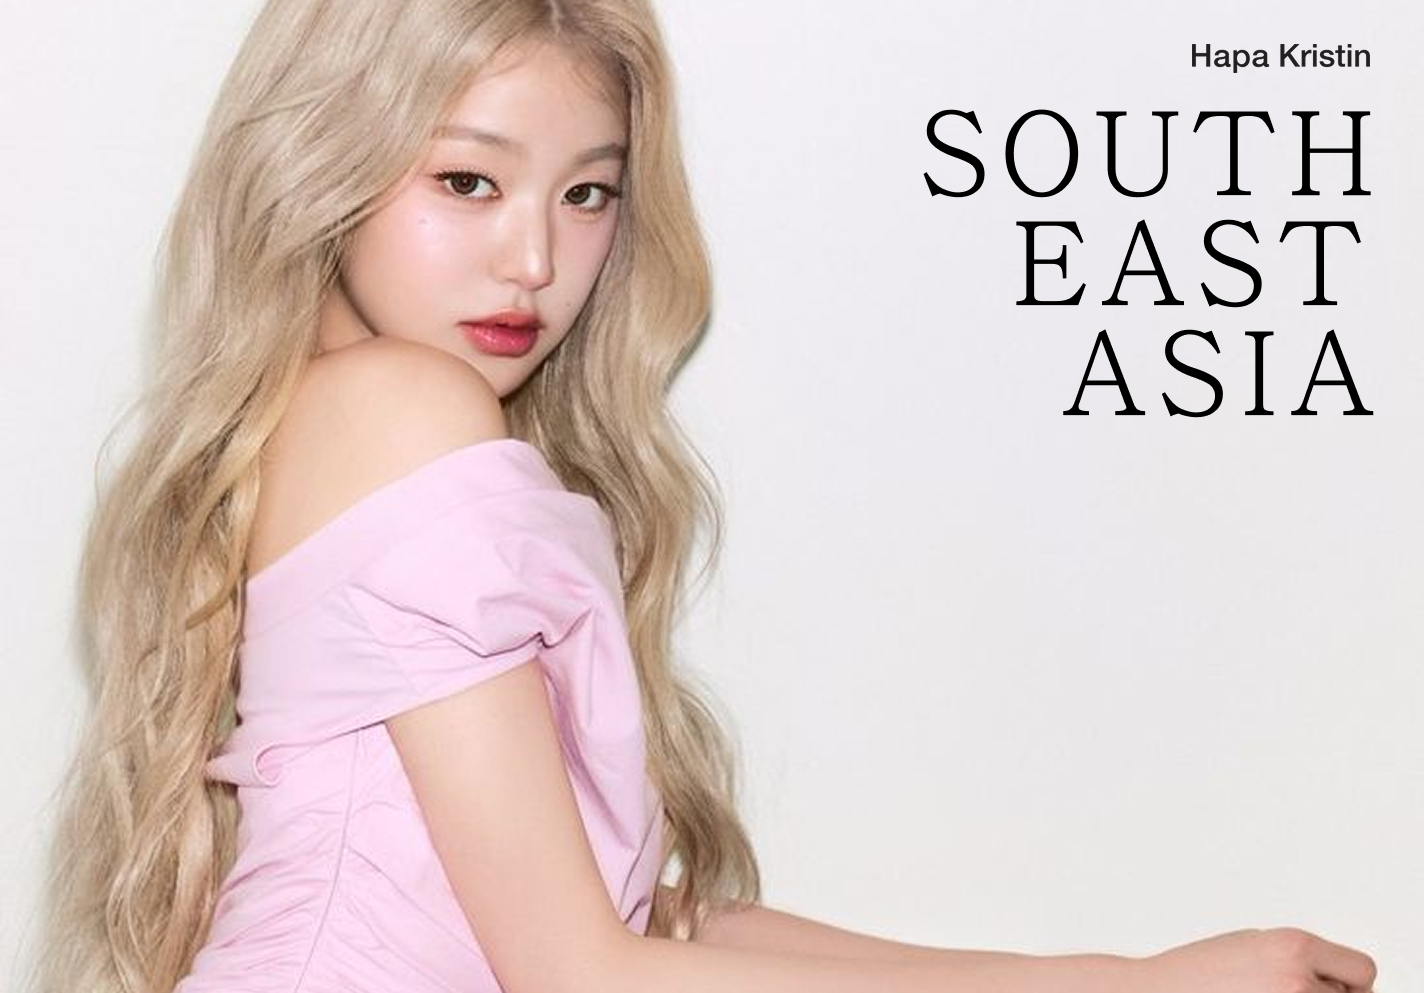
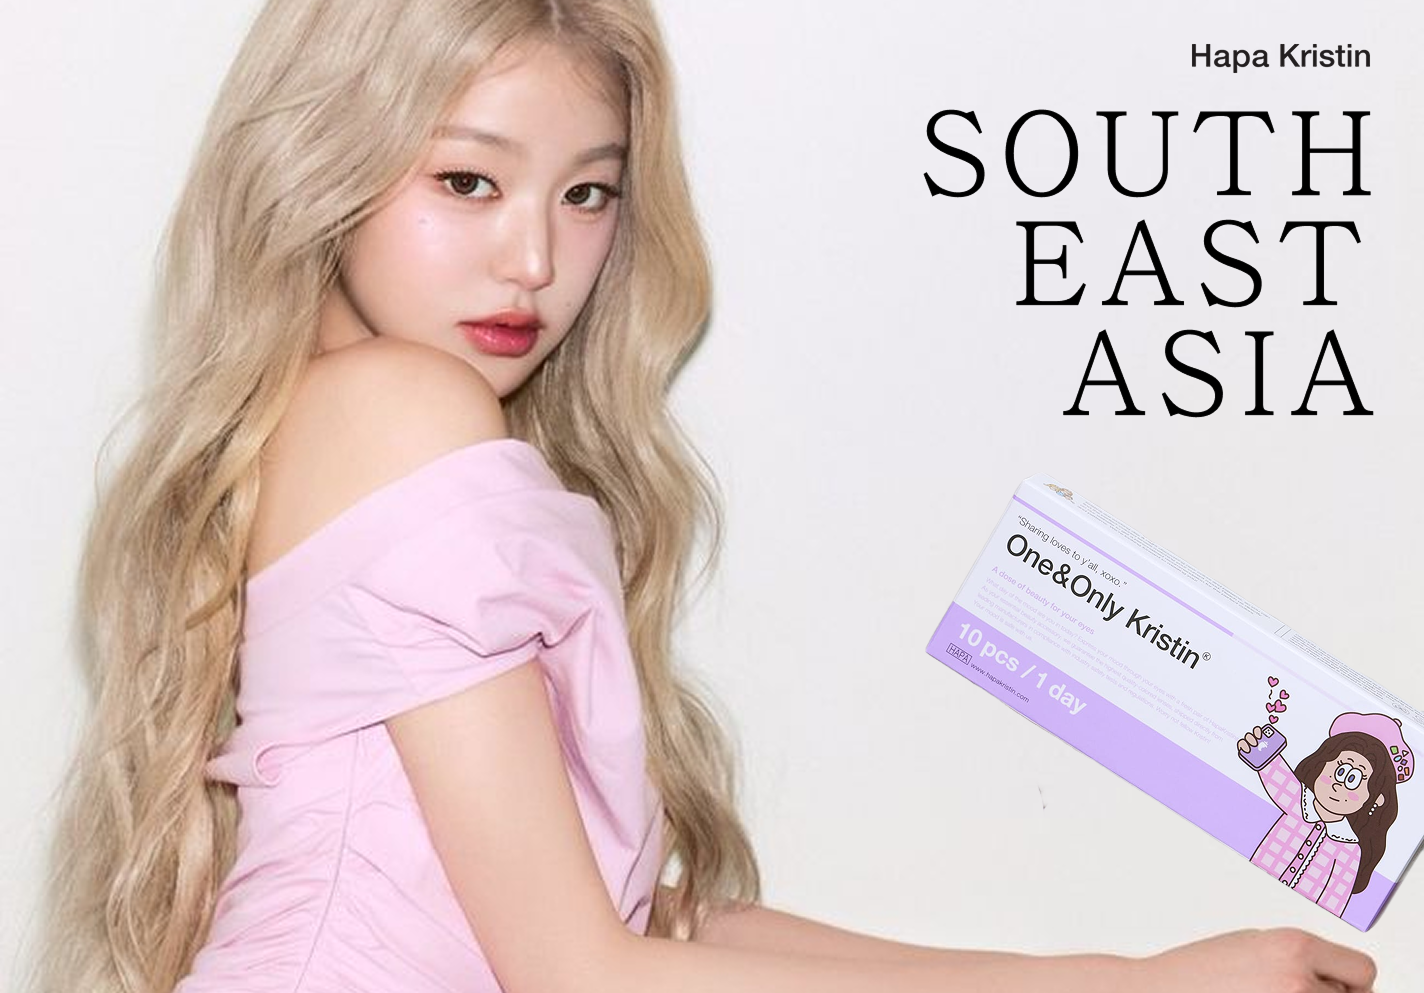
experience images added

Changed region(s): [[0.6489, 0.5932, 1.0, 0.9366], [0.7107, 0.4995, 0.8343, 0.6556], [0.927, 0.6556, 0.9579, 0.6868]]

diff --git a/index.html b/index.html
@@ -142,6 +142,15 @@
                         <div class="exp">
                             <p class="p-exp03">해외 직구 쇼핑몰</p>
 
+
+                            <div class="exp-hk">
+                                <img class="experience-image logo" src="./images/exp/logo01.png">
+                                <img class="experience-image" src="./images/exp/hk01.png">
+                                <img class="experience-image" src="./images/exp/hk02.png">
+                                <img class="experience-image" src="./images/exp/hk03.png">
+                                <img class="experience-image" src="./images/exp/hk04.png">
+                            </div>
+
                             <div class="stickers">
                                 <img src="./images/sticker/0.png">
                                 <img src="./images/sticker/00.png">
@@ -149,19 +158,7 @@
                                 <img src="./images/sticker/0000.png">
                                 <img src="./images/sticker/00000.png">
                                 <!--                                <img src="./images/sticker/000000.png">-->
-
                             </div>
-
-                            <div class="exp-hk">
-
-                                <img class="experience-image" src="./images/exp/hk01.png">
-                                <img class="experience-image" src="./images/exp/hk02.png">
-                                <img class="experience-image" src="./images/exp/hk03.png">
-                                <img class="experience-image" src="./images/exp/hk04.png">
-
-                            </div>
-
-
                             <img class="experience-image" src="./images/exp/exp05.png">
                             <img class="experience-image" src="./images/exp/exp055.png">
 

diff --git a/css/experience.css b/css/experience.css
@@ -81,12 +81,13 @@
     box-shadow: 5px 15px 14px #0000008f;
     transform: rotate(5deg);
     width: 80%;
-    background: linear-gradient(45deg, #fcd7f4, #d2a9ce, #faa4ce);
+    background: linear-gradient(45deg, #ecb5f9, #fdc8f8, #ff79a2);
     margin: 10vw 0;
 }
 
 .stickers img {
     z-index: 3;
+    position: relative;
 }
 
 .stickers img:nth-child(1) {
@@ -127,6 +128,32 @@
     border: 1px solid #fff;
     padding: 0;
     box-shadow: -1px -1px 3px #7c7c7c, 1px -0.5px 1px #959595;
+}
+
+.exp-hk .experience-image.logo {
+    padding: 3vw 2vw 10vw;
+    border: 0;
+    width: 30vw !important;
+    box-shadow: none;
+    margin: 0 auto;
+    position: relative;
+    display: block;
+}
+
+.exp-stickers .hap01 {
+    position: absolute;
+    z-index: 1;
+    width: 50vw;
+    right: 0;
+    margin-top: -10vw;
+}
+
+.hap02 {
+    position: absolute;
+    z-index: 1;
+    width: 15vw;
+    left: 10vw;
+    margin-top: 20vw;
 }
 
 .exp-grid {
